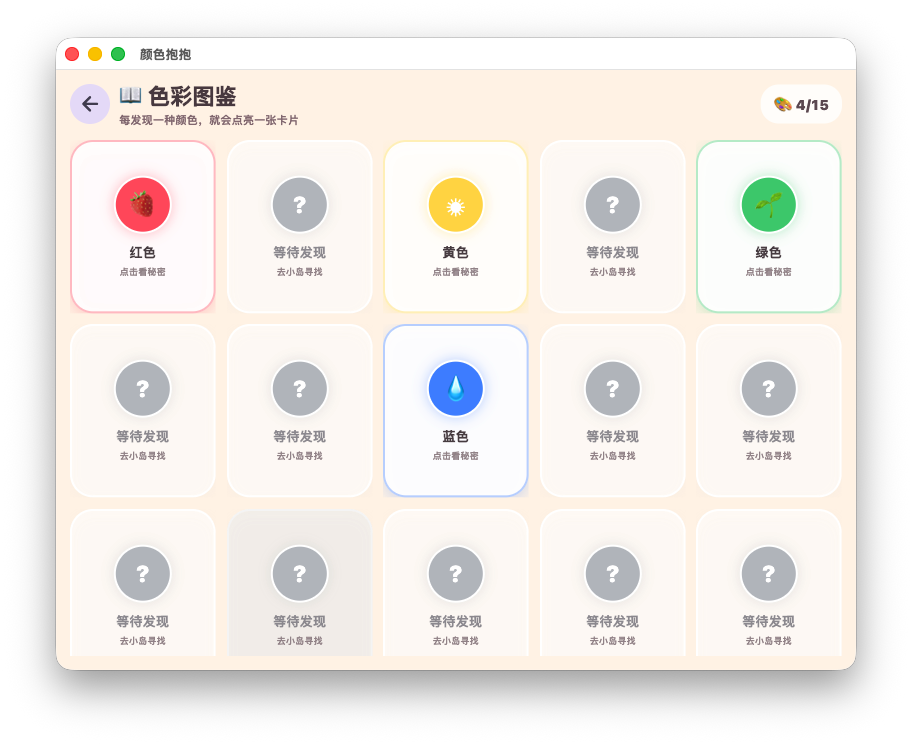
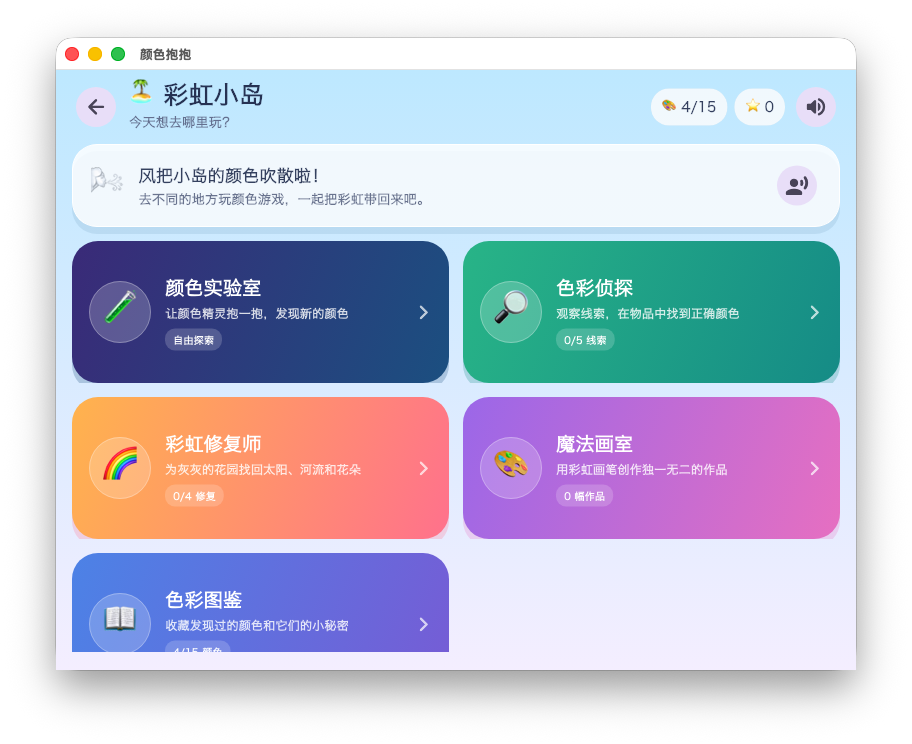
docs(readme): add screenshots for every game mode

diff --git a/tool/readme_screenshot_test.dart b/tool/readme_screenshot_test.dart
@@ -1,0 +1,155 @@
+import 'dart:io';
+
+import 'package:color_hug/color_detective_screen.dart';
+import 'package:color_hug/color_gallery_screen.dart';
+import 'package:color_hug/game_audio.dart';
+import 'package:color_hug/island_progress.dart';
+import 'package:color_hug/magic_studio_screen.dart';
+import 'package:color_hug/rainbow_island_screen.dart';
+import 'package:color_hug/rainbow_repair_screen.dart';
+import 'package:flutter/material.dart';
+import 'package:flutter/services.dart';
+import 'package:flutter_test/flutter_test.dart';
+
+const _captureKey = ValueKey('readme-capture');
+
+Future<void> _loadFont(String family, String path) async {
+  final loader = FontLoader(family)
+    ..addFont(
+      File(path).readAsBytes().then((bytes) => ByteData.sublistView(bytes)),
+    );
+  await loader.load();
+}
+
+Future<void> _loadMacFonts() async {
+  final flutterExecutable = File(
+    File(
+      Process.runSync('which', ['flutter']).stdout.toString().trim(),
+    ).resolveSymbolicLinksSync(),
+  );
+  final flutterRoot = flutterExecutable.parent.parent.path;
+  await Future.wait([
+    _loadFont('Hiragino Sans GB', '/System/Library/Fonts/Hiragino Sans GB.ttc'),
+    _loadFont(
+      'Apple Color Emoji',
+      '/System/Library/Fonts/Apple Color Emoji.ttc',
+    ),
+    _loadFont(
+      'MaterialIcons',
+      '$flutterRoot/bin/cache/artifacts/material_fonts/MaterialIcons-Regular.otf',
+    ),
+  ]);
+}
+
+Widget _previewApp(Widget screen) {
+  return MaterialApp(
+    debugShowCheckedModeBanner: false,
+    theme: ThemeData(
+      useMaterial3: true,
+      colorScheme: ColorScheme.fromSeed(
+        seedColor: const Color(0xFF7957D5),
+        brightness: Brightness.light,
+      ),
+      fontFamily: 'Hiragino Sans GB',
+      fontFamilyFallback: const ['Apple Color Emoji'],
+    ),
+    home: RepaintBoundary(key: _captureKey, child: screen),
+  );
+}
+
+Future<void> _pumpPreview(WidgetTester tester, Widget screen) async {
+  tester.view.physicalSize = const Size(800, 600);
+  tester.view.devicePixelRatio = 1;
+  addTearDown(tester.view.resetPhysicalSize);
+  addTearDown(tester.view.resetDevicePixelRatio);
+  await tester.pumpWidget(_previewApp(screen));
+  await tester.pump(const Duration(milliseconds: 200));
+}
+
+Future<void> _capture(String name) async {
+  await expectLater(
+    find.byKey(_captureKey),
+    matchesGoldenFile('../docs/images/.raw-$name.png'),
+  );
+}
+
+void main() {
+  setUpAll(_loadMacFonts);
+
+  testWidgets('生成彩虹小岛截图', (tester) async {
+    await _pumpPreview(
+      tester,
+      RainbowIslandScreen(
+        progress: IslandProgress(),
+        audio: GameAudioController.silent(),
+        onOpenLab: () {},
+      ),
+    );
+    await _capture('color-hug-island');
+  });
+
+  testWidgets('生成色彩侦探截图', (tester) async {
+    await _pumpPreview(
+      tester,
+      ColorDetectiveScreen(
+        progress: IslandProgress(),
+        audio: GameAudioController.silent(),
+      ),
+    );
+    await _capture('color-hug-detective');
+  });
+
+  testWidgets('生成彩虹修复师截图', (tester) async {
+    await _pumpPreview(
+      tester,
+      RainbowRepairScreen(
+        progress: IslandProgress(),
+        audio: GameAudioController.silent(),
+      ),
+    );
+    await tester.tap(find.byKey(const ValueKey('repair-color-黄色')));
+    await tester.pump(const Duration(milliseconds: 1200));
+    await tester.tap(find.byKey(const ValueKey('repair-color-蓝色')));
+    await tester.pump(const Duration(milliseconds: 1200));
+    await _capture('color-hug-repair');
+  });
+
+  testWidgets('生成魔法画室截图', (tester) async {
+    await _pumpPreview(
+      tester,
+      MagicStudioScreen(
+        progress: IslandProgress(),
+        audio: GameAudioController.silent(),
+      ),
+    );
+    final canvas = find.byKey(const ValueKey('studio-canvas'));
+    final rect = tester.getRect(canvas);
+    await tester.dragFrom(
+      rect.centerLeft + const Offset(80, -35),
+      const Offset(420, 100),
+    );
+    await tester.tap(find.byKey(const ValueKey('studio-color-蓝色')));
+    await tester.dragFrom(
+      rect.topCenter + const Offset(-130, 70),
+      const Offset(270, 220),
+    );
+    await tester.tap(find.byKey(const ValueKey('studio-color-黄色')));
+    await tester.dragFrom(
+      rect.bottomLeft + const Offset(120, -80),
+      const Offset(430, -180),
+    );
+    await tester.pump(const Duration(milliseconds: 200));
+    await _capture('color-hug-studio');
+  });
+
+  testWidgets('生成色彩图鉴截图', (tester) async {
+    await _pumpPreview(
+      tester,
+      ColorGalleryScreen(
+        progress: IslandProgress(),
+        audio: GameAudioController.silent(),
+      ),
+    );
+    await _capture('color-hug-gallery');
+  });
+}

diff --git a/README.md b/README.md
@@ -38,6 +38,8 @@
 
 ## 🖼 界面预览
 
+### 颜色实验室
+
 <table>
   <tr>
     <td width="50%" align="center">
@@ -50,6 +52,42 @@
   <tr>
     <td align="center"><strong>☀ 光模式</strong><br><sub>拖动颜色精灵探索加色混合</sub></td>
     <td align="center"><strong>🎨 颜料模式</strong><br><sub>在温暖的画布上探索颜料混色</sub></td>
+  </tr>
+</table>
+
+<p align="center">
+  <img width="72%" alt="颜色抱抱 macOS 颜色小任务" src="./docs/images/color-hug-challenge.png">
+  <br>
+  <strong>🚩 颜色小任务</strong><br>
+  <sub>跟随目标提示完成混色挑战，收集星星</sub>
+</p>
+
+### 彩虹小岛玩法
+
+<table>
+  <tr>
+    <td width="50%" align="center">
+      <img alt="颜色抱抱 macOS 色彩侦探" src="./docs/images/color-hug-detective.png">
+    </td>
+    <td width="50%" align="center">
+      <img alt="颜色抱抱 macOS 彩虹修复师" src="./docs/images/color-hug-repair.png">
+    </td>
+  </tr>
+  <tr>
+    <td align="center"><strong>🔎 色彩侦探</strong><br><sub>听线索、观察物品，找出正确颜色</sub></td>
+    <td align="center"><strong>🌈 彩虹修复师</strong><br><sub>用颜色逐步唤醒太阳、河流与花园</sub></td>
+  </tr>
+  <tr>
+    <td width="50%" align="center">
+      <img alt="颜色抱抱 macOS 魔法画室" src="./docs/images/color-hug-studio.png">
+    </td>
+    <td width="50%" align="center">
+      <img alt="颜色抱抱 macOS 色彩图鉴" src="./docs/images/color-hug-gallery.png">
+    </td>
+  </tr>
+  <tr>
+    <td align="center"><strong>🎨 魔法画室</strong><br><sub>挑选彩虹画笔，自由创作自己的作品</sub></td>
+    <td align="center"><strong>📖 色彩图鉴</strong><br><sub>点亮颜色卡片，聆听每种颜色的小秘密</sub></td>
   </tr>
 </table>
 
